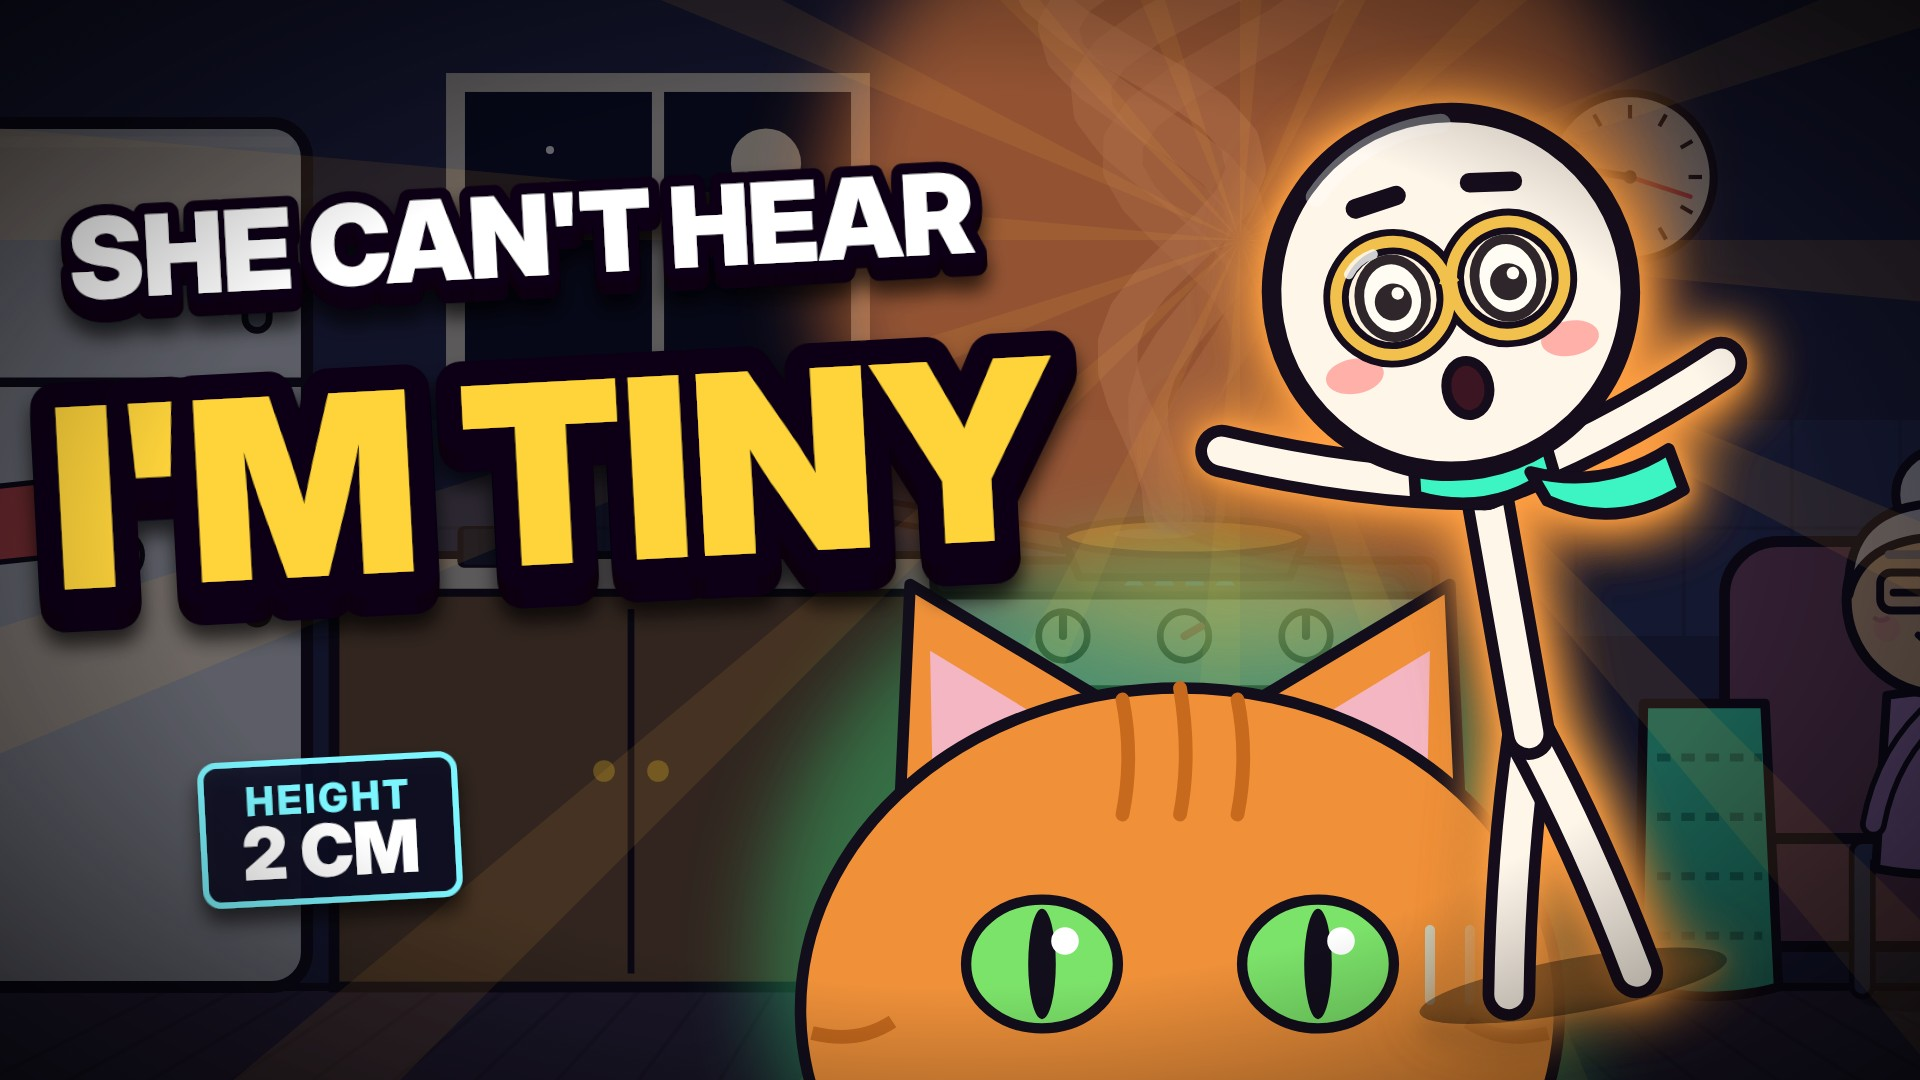
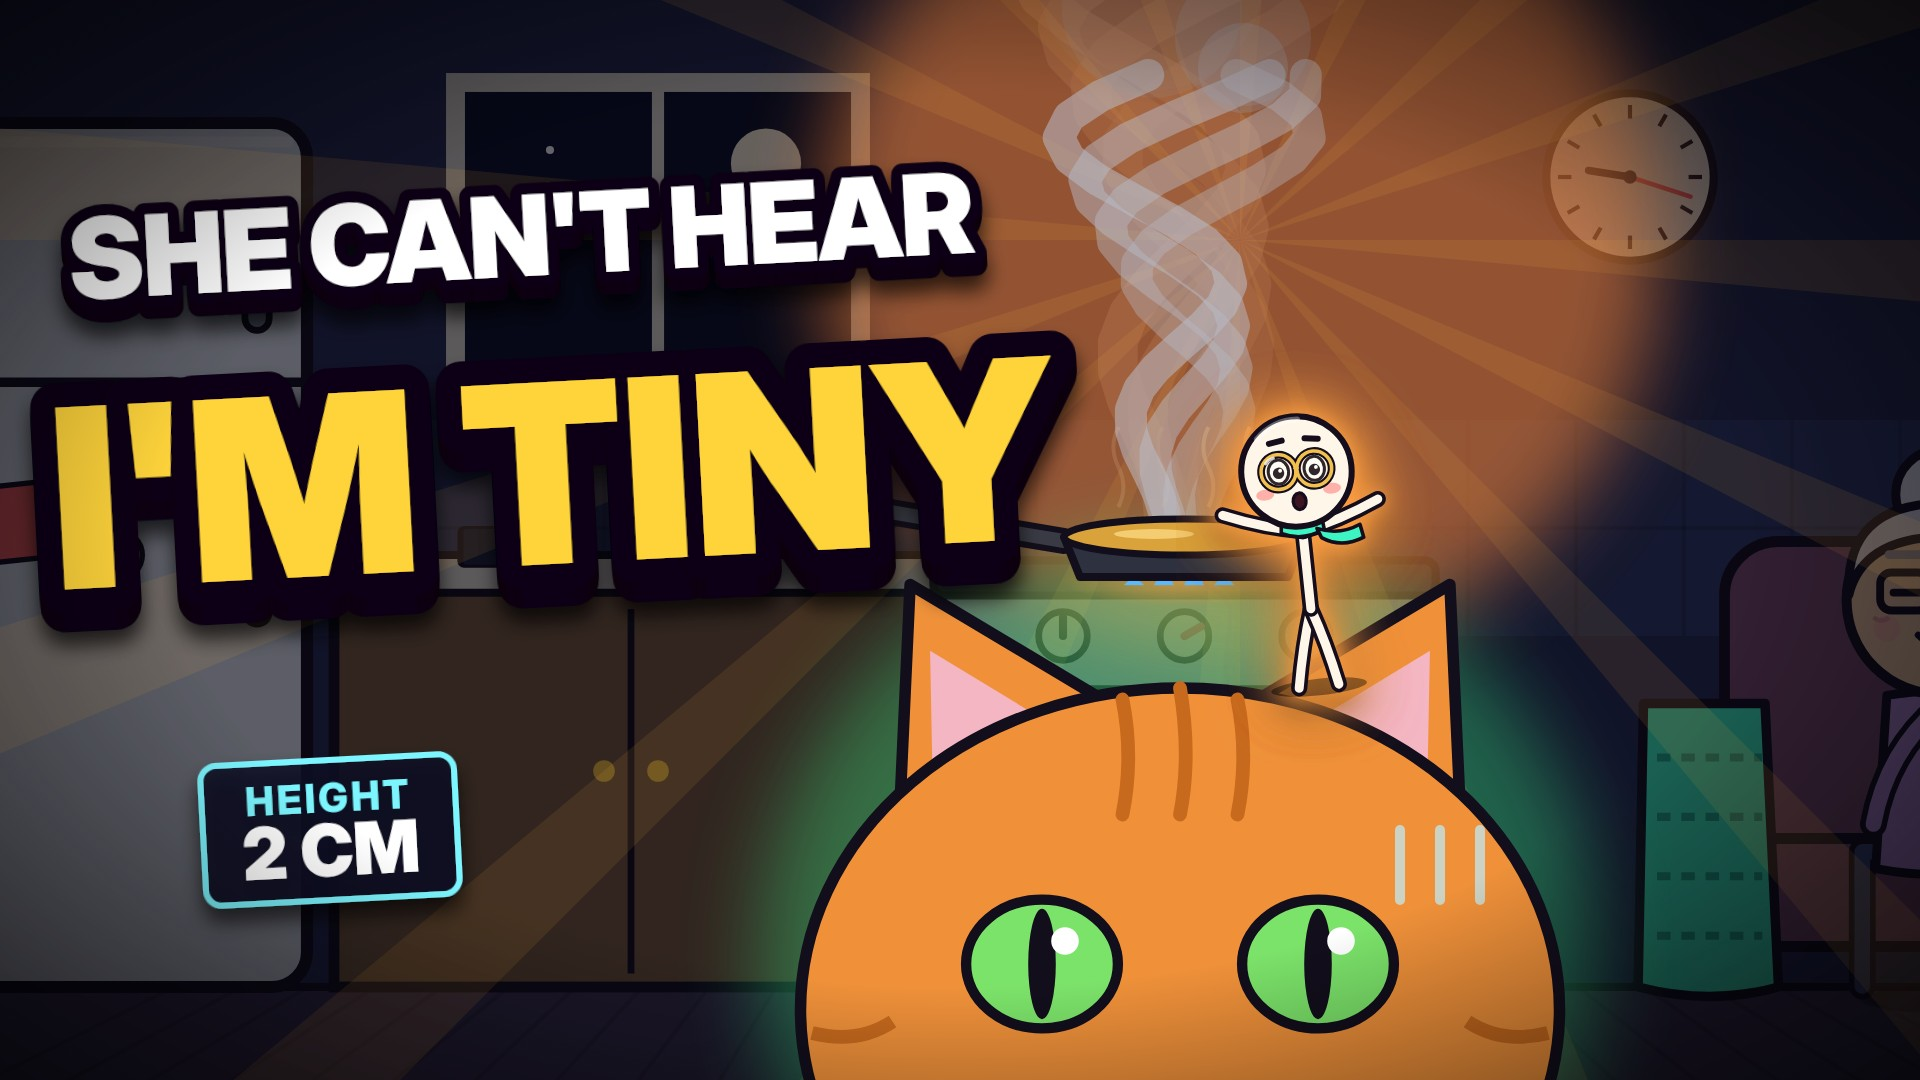
Episode 019: What If You SHRANK to the Size of an Ant? (story)
Claude-Session: https://claude.ai/code/session_019ai2m2MxcJnxMHWqzPuaSF

Changed region(s): [[0.5312, 0.0, 0.9375, 0.9778], [0.4688, 0.4583, 0.5, 0.4889]]

diff --git a/episodes/019-ant-size/thumb2.html b/episodes/019-ant-size/thumb2.html
@@ -2,15 +2,14 @@
 <script src="../../studio/lib.js"></script><script src="../../studio/shots.js"></script><script src="../../studio/cast.js"></script><script src="../../studio/thumbkit.js"></script><script src="../../studio/ep/019.js"></script><script>
 let th_g=1.7;
 let th_far=`<g transform="translate(-260,-120) scale(1.35)" opacity=".85">${a19_kitchen(th_g,{smoke:1,th:.9,nan:'doze'})}</g>`;
-let th_hero=`<g transform="translate(1470,400) rotate(-10) scale(1.95)">${glint({t:.35,mouth:'o',brows:'raised',pose:'reach',legs:'walk',blink:0})}</g>`;
+let th_hero=`<g transform="translate(1300,505) rotate(-6) scale(.6)">${glint({t:.35,mouth:'o',brows:'raised',pose:'reach',legs:'walk',blink:0})}</g>`;
 document.getElementById('s').innerHTML=TK.wrap(`
  ${th_far}
  <rect width="1920" height="1080" fill="#05030C" opacity=".55"/>
  ${TK.glowBlob(1240,240,420,'#FF8A3D',.55)}${TK.rays(1240,240,'#FFB13B',16,1600,.10)}
  ${TK.glowBlob(1180,960,420,'#3DF58A',.35)}
  <g transform="translate(1180,1010)">${a19_catFace(0,0,1.15,0,{ears:0,slit:1})}</g>
- <path d="M1600 860 L1980 820 L1980 1100 L1600 1100Z" fill="#E8EEF4" opacity="0"/>
- ${[-40,0,40].map(dx=>`<path d="M${1470+dx} 1000 v-70" stroke="#BFEFFF" stroke-width="10" stroke-linecap="round" opacity=".7"/>`).join('')}
+ ${a19_smoke(1184,535,th_g,1,1,460)}${a19_pan(1184,547,1.0,th_g,{heat:1,shim:1})}${[-40,0,40].map(dx=>`<path d="M${1440+dx} 900 v-70" stroke="#BFEFFF" stroke-width="10" stroke-linecap="round" opacity=".7"/>`).join('')}
  ${TK.rim(th_hero,'#FF9F43',30)}
  ${TK.text(70,300,"SHE CAN'T HEAR",{size:112,fill:'#fff',rot:-3})}
  ${TK.text(55,590,"I'M TINY",{size:250,fill:'#FFD43B',rot:-3,depth:18})}
